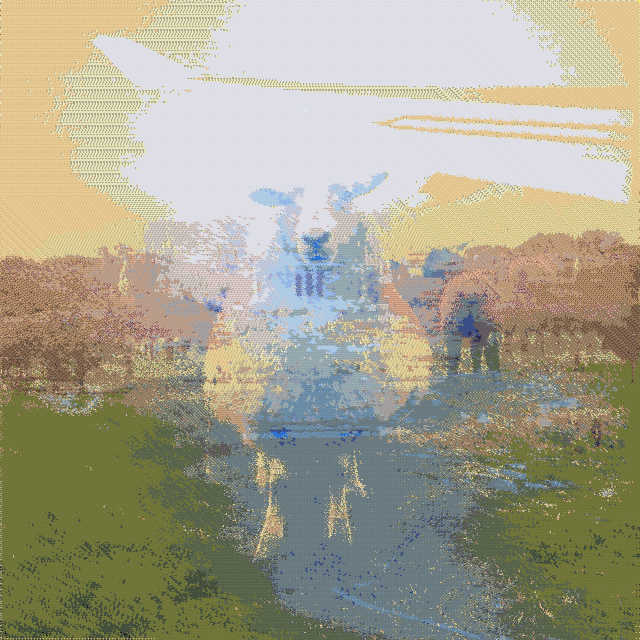
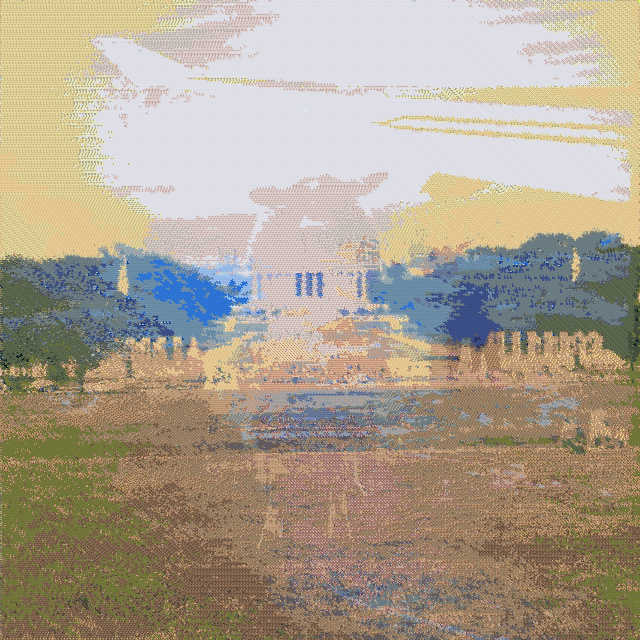
0076 - node --harmony /index.js

diff --git a/sketches/0076/index.js b/sketches/0076/index.js
@@ -132,8 +132,8 @@ co(function*(){
 		return nextColor;
 	}
 
-	var imgRed = yield getBasePixels(getPath(others[0]));
-	var imgGreen = yield getBasePixels(getPath(others[1]));
+	var imgRed = yield getBasePixels(getPath(others[1]));
+	var imgGreen = yield getBasePixels(getPath(others[0]));
 	var imgBlue = yield getBasePixels(getPath(others[2]));
 	var newImg = yield getBasePixels(getPath(others[0]));
 
